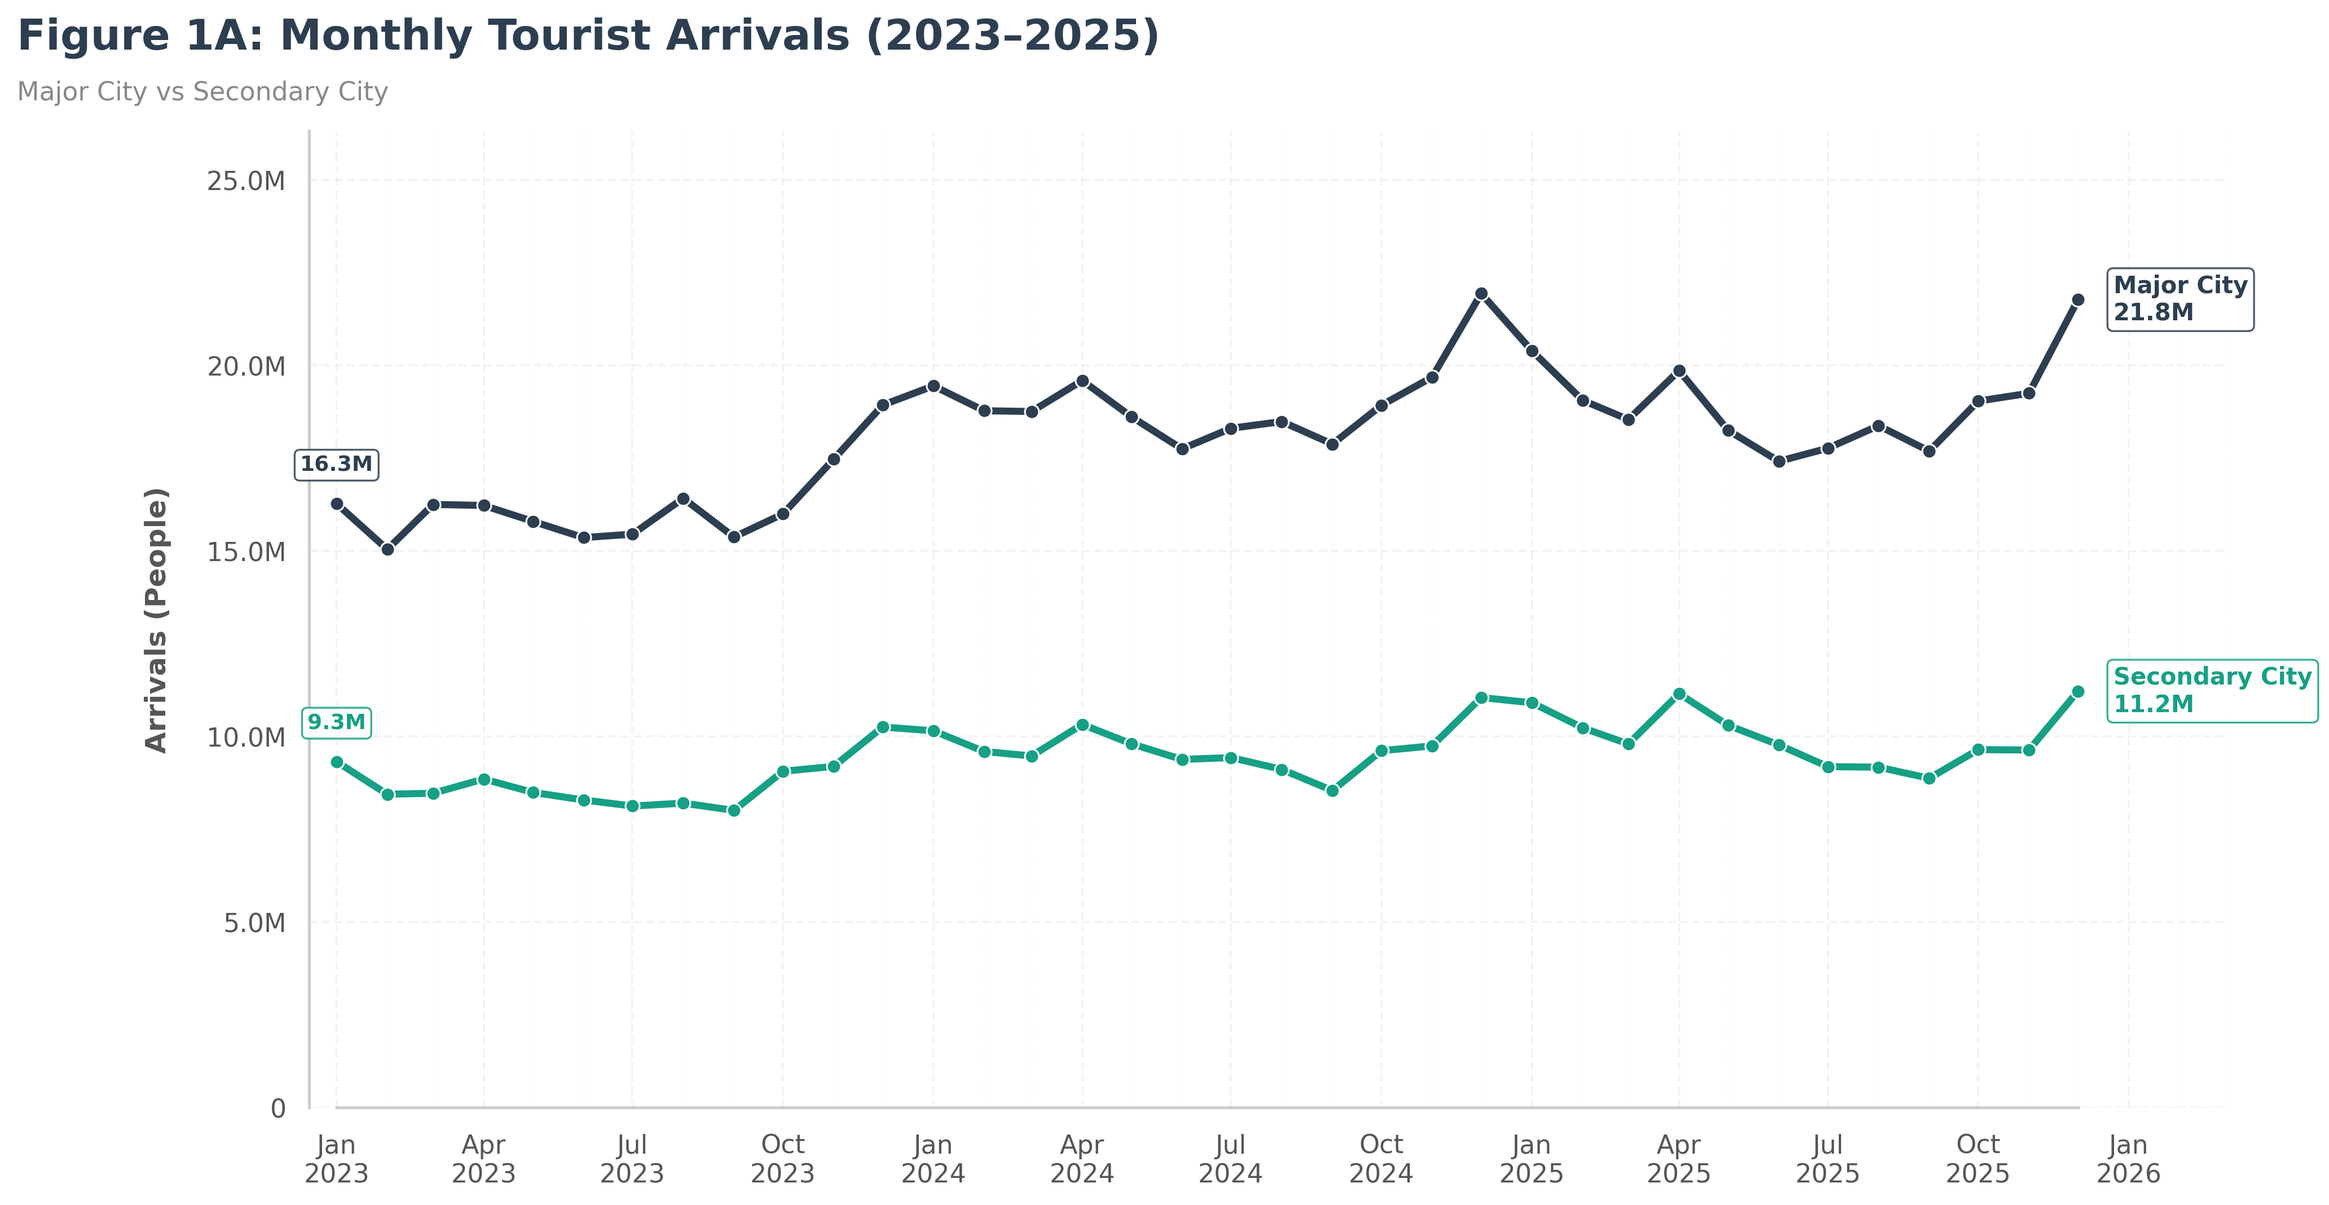
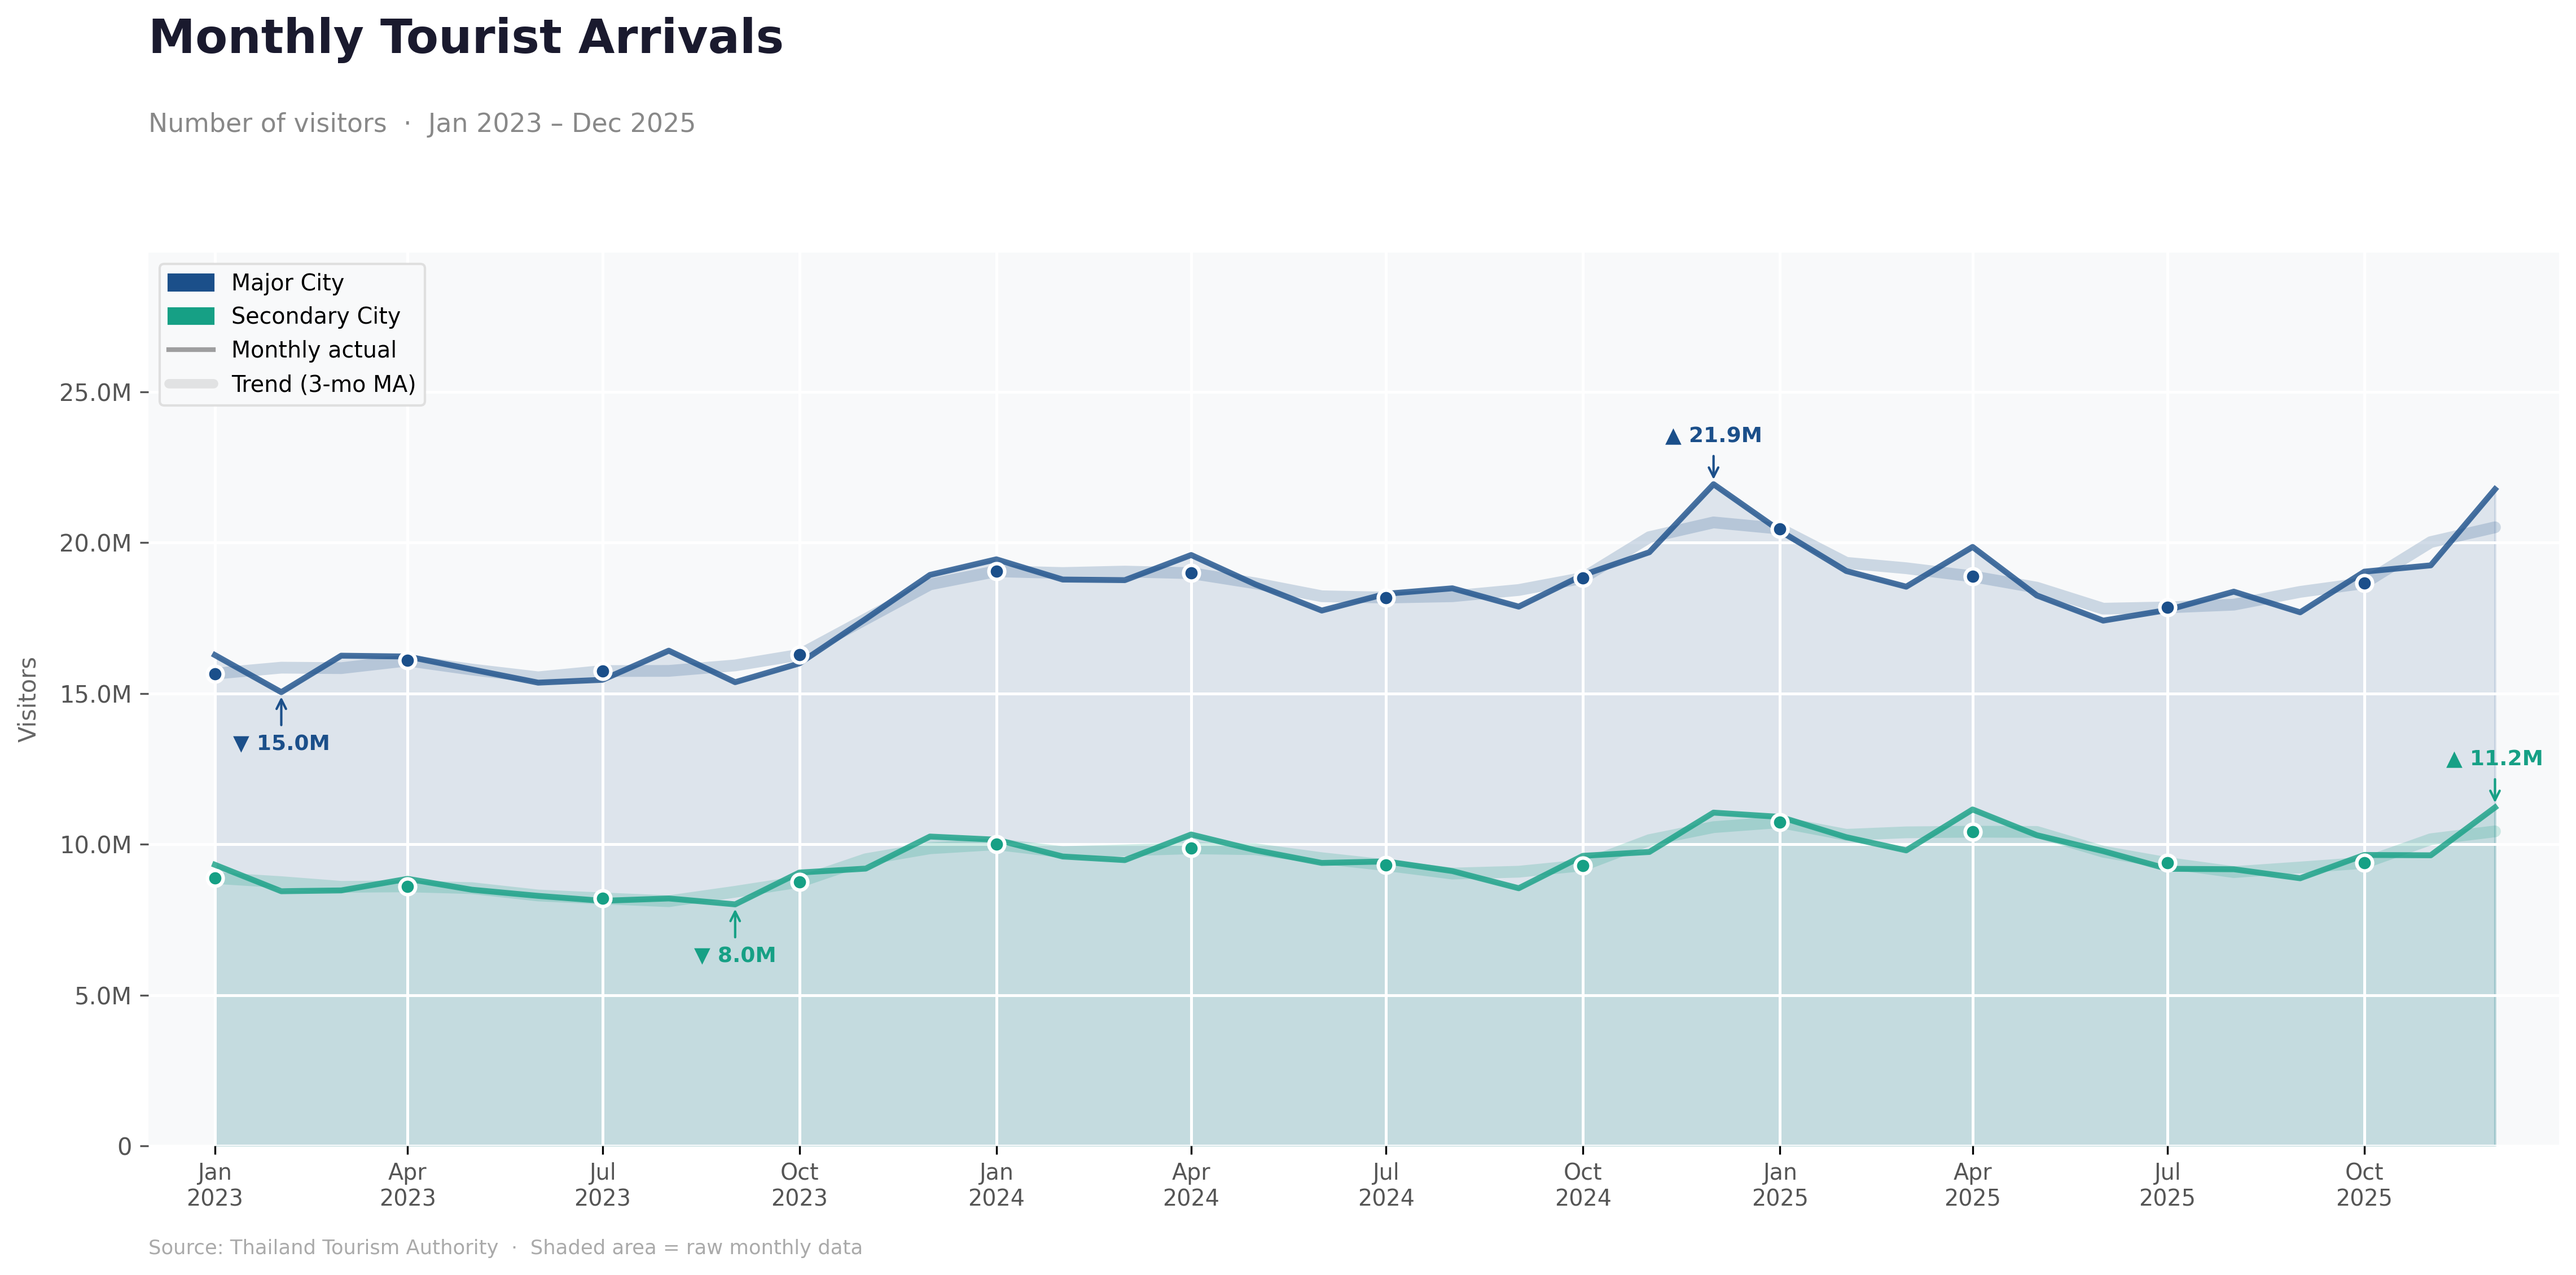
update cleaned data and script

diff --git a/visualizations/tourism_economic_comparison.py b/visualizations/tourism_economic_comparison.py
@@ -1,93 +1,168 @@
 import pandas as pd
 import matplotlib.pyplot as plt
-import seaborn as sns
-import os
 import matplotlib.dates as mdates
+import matplotlib.patches as mpatches
 from matplotlib.ticker import FuncFormatter
+from matplotlib.gridspec import GridSpec
+import numpy as np
+import os
 
-sns.set_theme(style="white", rc={"axes.grid": True, "grid.alpha": 0.2, "grid.linestyle": "--"})
-plt.rcParams['figure.facecolor'] = 'white'
-plt.rcParams['font.family'] = 'sans-serif'
+# ─── Style ────────────────────────────────────────────────────────────────────
+plt.rcParams.update({
+    'figure.facecolor':  'white',
+    'axes.facecolor':    '#F8F9FA',
+    'axes.grid':         True,
+    'grid.color':        '#FFFFFF',
+    'grid.linewidth':    1.2,
+    'font.family':       'sans-serif',
+    'axes.spines.top':   False,
+    'axes.spines.right': False,
+    'axes.spines.left':  False,
+    'axes.spines.bottom':False,
+})
 
-data_path = 'data/processed/master_tourism_analysis.csv'
-if os.path.exists(data_path):
-    df = pd.read_csv(data_path)
-    df['Year_CE'] = df['Year'].astype(int) - 543
-    df['date'] = pd.to_datetime(df['Year_CE'].astype(str) + '-' + df['Month'], format='%Y-%b')
-    df_plot = df.groupby(['date', 'City_type_EN'])[['total_visitors', 'total_revenue', 'real_revenue']].sum().reset_index()
-    df_plot = df_plot[(df_plot['date'] >= '2023-01-01') & (df_plot['date'] <= '2025-12-01')].sort_values('date')
-else:
-    print("❌ ไม่พบไฟล์ข้อมูล"); exit()
+COLORS = {
+    'Major City':     '#1B4F8A',
+    'Secondary City': '#16A085',
+}
+FILL_ALPHA = 0.12
 
-os.makedirs('visualizations', exist_ok=True)
-my_palette = {'Major City': '#2C3E50', 'Secondary City': '#16A085'}
-
+# ─── Helpers ──────────────────────────────────────────────────────────────────
 def fmt(x):
-    if x >= 1e9: return f'{x/1e9:.1f}B'
-    elif x >= 1e6: return f'{x/1e6:.1f}M'
+    if x >= 1e9:  return f'{x/1e9:.1f}B'
+    if x >= 1e6:  return f'{x/1e6:.1f}M'
+    if x >= 1e3:  return f'{x/1e3:.0f}K'
     return f'{x:,.0f}'
 
-def create_clean_chart(y_col, title, subtitle, ylabel, filename):
-    fig, ax = plt.subplots(figsize=(15, 7.5))
+def moving_avg(series, window=3):
+    return series.rolling(window, min_periods=1, center=True).mean()
 
-    sns.lineplot(data=df_plot, x='date', y=y_col, hue='City_type_EN',
-                 palette=my_palette, linewidth=3, marker='o',
-                 markersize=6, ax=ax, legend=False)
+# ─── Data Loading ─────────────────────────────────────────────────────────────
+data_path = 'data/processed/master_tourism_analysis.csv'
+if not os.path.exists(data_path):
+    print("❌ ไม่พบไฟล์ข้อมูล"); exit()
 
-    for line_name, color in my_palette.items():
-        subset = df_plot[df_plot['City_type_EN'] == line_name].sort_values('date')
-        first, last = subset.iloc[0], subset.iloc[-1]
+df = pd.read_csv(data_path)
+df['Year_CE'] = df['Year'].astype(int) - 543
+df['date'] = pd.to_datetime(df['Year_CE'].astype(str) + '-' + df['Month'], format='%Y-%b')
+df_plot = (
+    df.groupby(['date', 'City_type_EN'])[['total_visitors', 'total_revenue', 'real_revenue']]
+    .sum()
+    .reset_index()
+    .query("'2023-01-01' <= date <= '2025-12-01'")
+    .sort_values('date')
+)
 
-        # ✅ First label พร้อม background box
-        ax.annotate(fmt(first[y_col]), xy=(first['date'], first[y_col]),
-                    xytext=(0, 14), textcoords='offset points',
-                    ha='center', fontsize=9, color=color, fontweight='bold',
-                    bbox=dict(boxstyle='round,pad=0.25', fc='white', ec=color, alpha=0.85, lw=0.8))
+os.makedirs('visualizations', exist_ok=True)
 
-        # ✅ End label ใส่กรอบแบบเดียวกับตอนเริ่มต้น และเอา Growth ออก
-        ax.annotate(f'{line_name}\n{fmt(last[y_col])}',
-                    xy=(last['date'], last[y_col]),
-                    xytext=(15, 0), textcoords='offset points',
-                    color=color, fontweight='bold', fontsize=10, va='center',
-                    bbox=dict(boxstyle='round,pad=0.25', fc='white', ec=color, alpha=0.85, lw=0.8))
+# ─── Chart factory ────────────────────────────────────────────────────────────
+CHART_CONFIGS = [
+    {
+        'col':      'total_visitors',
+        'title':    'Monthly Tourist Arrivals',
+        'subtitle': 'Number of visitors  ·  Jan 2023 – Dec 2025',
+        'ylabel':   'Visitors',
+        'filename': 'figure_1A.png',
+    },
+    {
+        'col':      'total_revenue',
+        'title':    'Monthly Tourism Income (Nominal)',
+        'subtitle': 'Total revenue  ·  Jan 2023 – Dec 2025',
+        'ylabel':   'THB',
+        'filename': 'figure_1B.png',
+    },
+    {
+        'col':      'real_revenue',
+        'title':    'Real Local Income Generation',
+        'subtitle': 'Real revenue  ·  Jan 2023 – Dec 2025',
+        'ylabel':   'THB (Real)',
+        'filename': 'figure_1C.png',
+    },
+]
 
-    # Ticks สม่ำเสมอ ทุก Q ตั้งแต่ Jan 2023 ถึง Jan 2026
-    ticks = pd.date_range(start='2023-01-01', end='2026-01-01', freq='QS-JAN')
+def create_chart(cfg):
+    col      = cfg['col']
+    filename = cfg['filename']
+
+    groups = {}
+    for name in ['Major City', 'Secondary City']:
+        sub = df_plot[df_plot['City_type_EN'] == name].sort_values('date').copy()
+        sub['ma'] = moving_avg(sub[col])
+        groups[name] = sub
+
+    fig = plt.figure(figsize=(16, 8))
+    gs  = GridSpec(1, 1, figure=fig, left=0.07, right=0.96, top=0.78, bottom=0.12)
+    ax  = fig.add_subplot(gs[0, 0])
+
+    for name, color in [('Major City', COLORS['Major City']),
+                         ('Secondary City', COLORS['Secondary City'])]:
+        sub   = groups[name]
+        dates = sub['date']
+        raw   = sub[col]
+        ma    = sub['ma']
+
+        ax.fill_between(dates, raw, alpha=FILL_ALPHA, color=color, zorder=1)
+        # 1. ข้อมูลจริง (Actual) — ทำให้เด่นขึ้น (เส้นทึบ หนาปานกลาง)
+        ax.plot(dates, raw, color=color, alpha=0.8, linewidth=2.5, 
+                label='Monthly actual', zorder=3)
+        
+        # 2. เส้น MA — ทำให้เป็นตัวสนับสนุน (เส้นทึบ หนาขึ้นแต่จางลง)
+        ax.plot(dates, ma, color=color, linewidth=5, alpha=0.2, 
+                solid_capstyle='round', zorder=2)
+        
+        q_mask = dates.dt.month.isin([1, 4, 7, 10])
+        ax.scatter(dates[q_mask], ma[q_mask], color=color, s=45, zorder=4, edgecolors='white', linewidths=1.5)
+
+    for name, color in [('Major City', COLORS['Major City']),
+                         ('Secondary City', COLORS['Secondary City'])]:
+        sub  = groups[name]
+        peak = sub.loc[sub[col].idxmax()]
+        drop = sub.loc[sub[col].idxmin()]
+
+        ax.annotate(f'▲ {fmt(peak[col])}', xy=(peak['date'], peak[col]), xytext=(0, 16),
+                    textcoords='offset points', fontsize=9, color=color, ha='center', va='bottom', fontweight='bold',
+                    arrowprops=dict(arrowstyle='->', color=color, lw=1, mutation_scale=10))
+        
+        ax.annotate(f'▼ {fmt(drop[col])}', xy=(drop['date'], drop[col]), xytext=(0, -18),
+                    textcoords='offset points', fontsize=9, color=color, ha='center', va='top', fontweight='bold',
+                    arrowprops=dict(arrowstyle='->', color=color, lw=1, mutation_scale=10))
+
+    global_max = df_plot[col].max()
+    ax.set_ylim(0, global_max * 1.35)
+    ax.yaxis.set_major_formatter(FuncFormatter(lambda x, _: fmt(x)))
+    ax.tick_params(axis='y', labelsize=10, colors='#555')
+
+    ticks = pd.date_range('2023-01-01', '2026-01-01', freq='QS-JAN')
     ax.set_xticks(ticks)
-    ax.set_xticklabels([d.strftime('%b\n%Y') for d in ticks])
+    ax.set_xticklabels([d.strftime('%b\n%Y') for d in ticks], fontsize=9.5, color='#555')
+    ax.set_xlim(pd.Timestamp('2022-12-01'), pd.Timestamp('2025-12-31'))
+    ax.set_ylabel(cfg['ylabel'], fontsize=10, color='#666', labelpad=8)
 
-    ax.set_xlim(pd.Timestamp('2022-12-15'), pd.Timestamp('2026-03-01'))
-    ax.spines['bottom'].set_bounds(mdates.date2num(pd.Timestamp('2023-01-01')),
-                                   mdates.date2num(pd.Timestamp('2025-12-01')))
+   # ── Legend (ปรับให้ตรงกับเส้นที่เปลี่ยนไป) ──
+    handles = [
+        mpatches.Patch(color=COLORS['Major City'],     label='Major City'),
+        mpatches.Patch(color=COLORS['Secondary City'], label='Secondary City'),
+        
+        # 1. ปรับ Monthly actual ให้เป็นเส้นทึบตามกราฟใหม่
+        plt.Line2D([0], [0], color='#888', linewidth=2, linestyle='-', 
+                   alpha=0.8, label='Monthly actual'),
+        
+        # 2. ปรับ 3-mo moving avg ให้ดูหนาขึ้นแต่จางลง (เป็นเงาหลัง)
+        plt.Line2D([0], [0], color='#888', linewidth=4, 
+                   alpha=0.2, solid_capstyle='round', label='Trend (3-mo MA)'),
+    ]
+    ax.legend(handles=handles, loc='upper left', fontsize=9.5, framealpha=0.9, edgecolor='#DDD')
 
-    # top=1.2 แทน 1.3 เส้นไม่แบนเกิน
-    ax.set_ylim(bottom=0, top=df_plot[y_col].max() * 1.2)
-    ax.yaxis.set_major_formatter(FuncFormatter(lambda x, pos: fmt(x)))
+    fig.text(0.07, 0.92, cfg['title'], fontsize=20, fontweight='bold', color='#1A1A2E', va='bottom')
+    fig.text(0.07, 0.865, cfg['subtitle'], fontsize=11, color='#888', va='bottom')
 
-    # Minor grid รายเดือน
-    ax.xaxis.set_minor_locator(mdates.MonthLocator())
-    ax.grid(which='minor', axis='x', alpha=0.05, linestyle=':')
+    fig.text(0.07, 0.04, 'Source: Thailand Tourism Authority  ·  Shaded area = raw monthly data', fontsize=8.5, color='#AAA')
 
-    # แกน Y กลับมา (left=False)
-    sns.despine(left=False, bottom=False)
-    ax.spines['left'].set_color('#CCCCCC')
-    ax.spines['bottom'].set_color('#CCCCCC')
-    ax.tick_params(colors='#555555', which='both')
-    ax.tick_params(axis='x', which='major', labelsize=11, pad=5)
-
-    fig.text(0.01, 0.97, title, fontsize=18, fontweight='bold', color='#2C3E50', va='top')
-    fig.text(0.01, 0.92, subtitle, fontsize=11, color='#888888', va='top')
-    ax.set_ylabel(ylabel, fontsize=12, fontweight='bold', color='#555555', labelpad=15)
-    ax.set_xlabel('')
-
-    plt.subplots_adjust(right=0.88)
-    for text in ax.texts: text.set_clip_on(False)
     plt.savefig(f'visualizations/{filename}', dpi=300, facecolor='white', bbox_inches='tight')
     plt.close()
     print(f'✅ {filename}')
 
-create_clean_chart('total_visitors', 'Figure 1A: Monthly Tourist Arrivals (2023–2025)', 'Major City vs Secondary City', 'Arrivals (People)', 'figure_1A.png')
-create_clean_chart('total_revenue',  'Figure 1B: Monthly Tourism Income — Nominal (2023–2025)', 'Major City vs Secondary City', 'Income (THB)', 'figure_1B.png')
-create_clean_chart('real_revenue',   'Figure 1C: Real Local Income Generation (2023–2025)', 'CPI-adjusted revenue', 'Real Revenue (THB)', 'figure_1C.png')
+for cfg in CHART_CONFIGS:
+    create_chart(cfg)
 
-print("🚀 DONE!")
+print('\n🚀 ALL CHARTS DONE!')

diff --git a/README.md b/README.md
@@ -27,7 +27,7 @@ This study addresses the following research questions:
 
 Tourism is one of the most important drivers of Thailand’s economy, contributing significantly to national income, employment, and regional economic activity. Tourism revenue accounts for a substantial share of Thailand’s gross domestic product and plays a key role in supporting economic recovery through foreign exchange earnings and service-sector employment (World Bank, 2023). In addition to its direct contribution, tourism generates multiplier effects across related industries such as transportation, accommodation, food services, and local enterprises, thereby supporting community livelihoods and regional development (Lloyds Bank, 2024).
 
-However, tourism development in Thailand has historically been concentrated in major destinations, leading to unequal distribution of economic benefits across regions. To reduce regional disparities, the Thai government introduced the secondary-city tourism (เมืองรอง) policy, aiming to redistribute tourist flows toward lesser-visited provinces and promote inclusive local economic growth through community-based tourism and regional promotion strategies (Chulalongkorn University, 2020).
+However, tourism development in Thailand has historically been concentrated in major destinations, leading to unequal distribution of economic benefits across regions. To reduce regional disparities, the Thai government introduced the secondary-city tourism policy, aiming to redistribute tourist flows toward lesser-visited provinces and promote inclusive local economic growth through community-based tourism and regional promotion strategies (Chulalongkorn University, 2020).
 
 Despite increasing tourism promotion and visitor growth in secondary cities, it remains unclear whether tourism expansion translates into real economic improvement for local communities. Increased tourist arrivals may not necessarily lead to higher real income if benefits are unevenly distributed or offset by rising living costs. Therefore, this study examines whether secondary-city tourism contributes to real income generation and more balanced regional development in Thailand.
 
